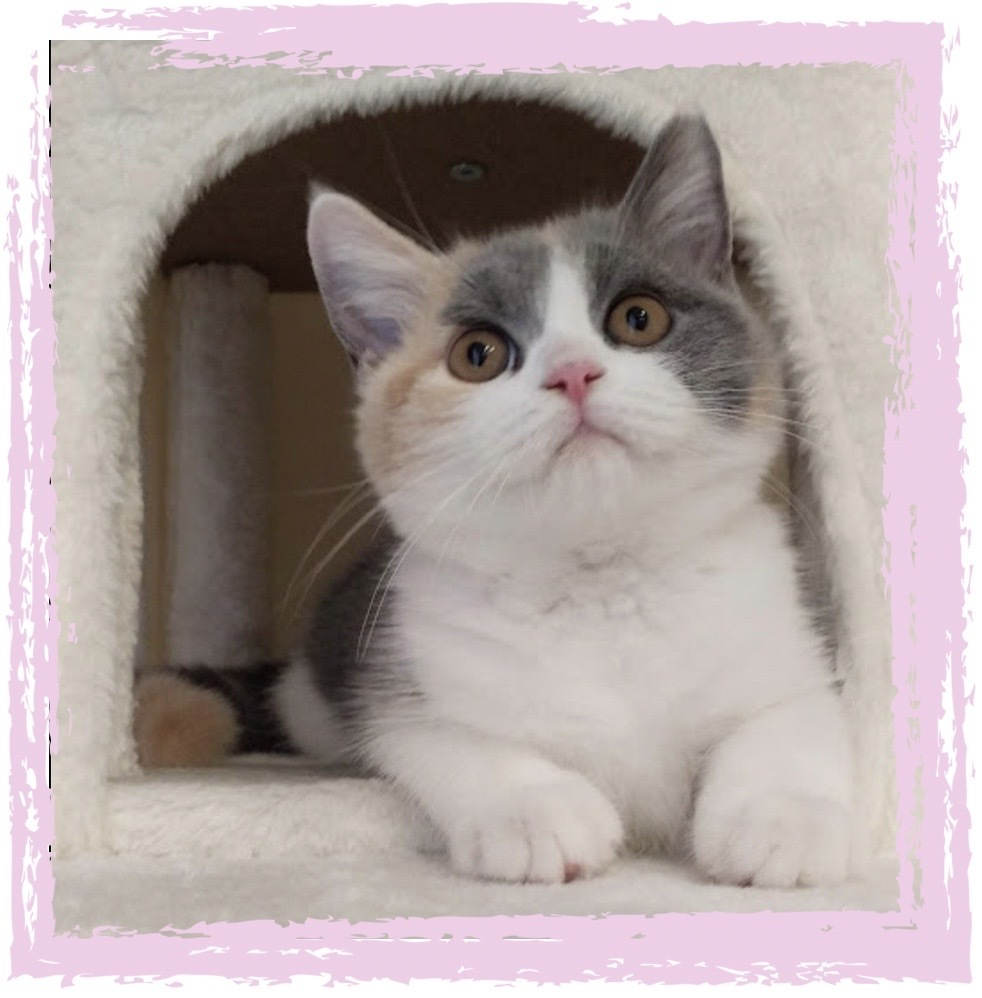
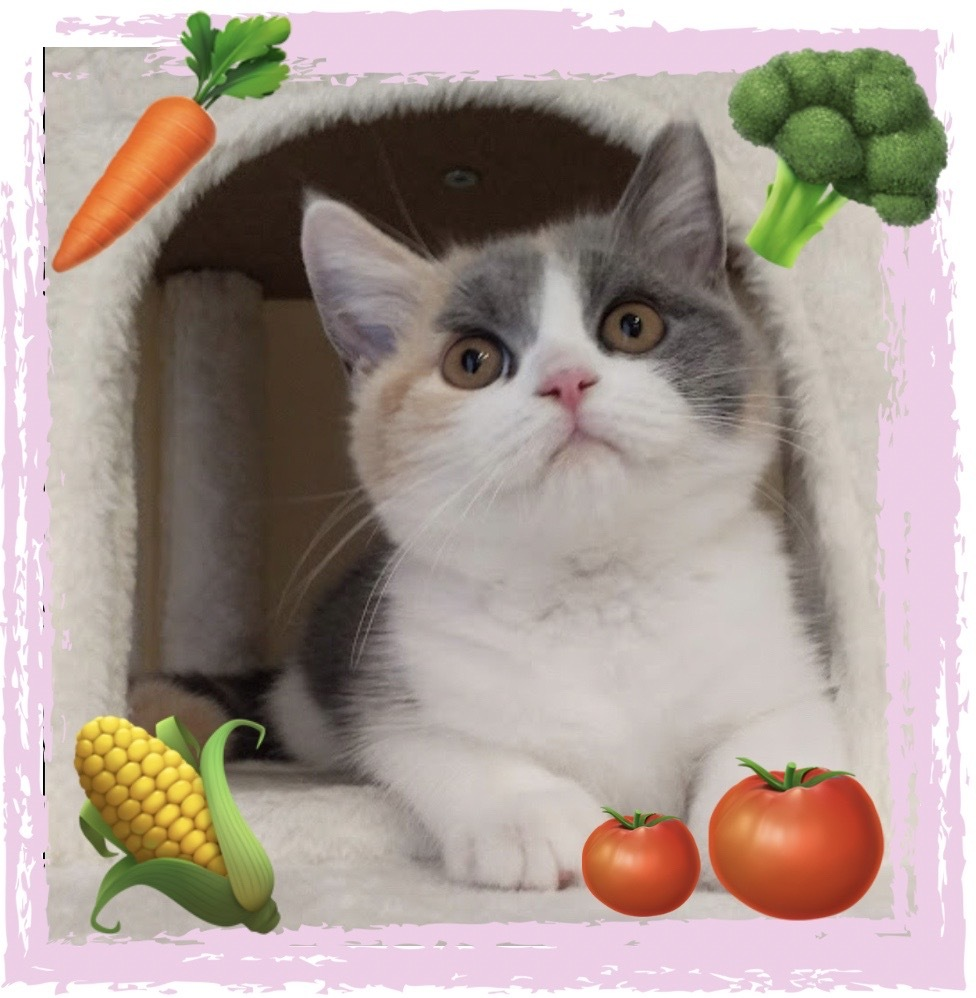
画像の編集

diff --git a/app/assets/stylesheets/style.css b/app/assets/stylesheets/style.css
@@ -67,6 +67,7 @@ a {
   border: 1px #049cfa solid;
   border-radius: 3px;
   transition: 0.4s ease;
+  margin-top: 15px;
 }
 
 .nav__btn:hover{
@@ -149,6 +150,9 @@ a {
 }
 
 /* メイン */
+.main {
+  background-image: url("vegetable");
+} 
 
 .greeting{
   margin-bottom: 20px;
@@ -208,6 +212,45 @@ a {
   background-size: cover;
   width: calc(100vw);
   height: calc(100vh);
+}
+
+.baby{
+  font-size: 15px;
+  display: inline;
+  padding: 0.2em;
+  margin: 10px;
+  color: black;
+  border: #ffffff dashed 1px;
+  box-shadow: 0 0 0 0.2em #acedf7;
+  border-radius: 2.5px;
+  background-color: #acedf7;
+  cursor: pointer;
+}
+
+.yawn{
+  font-size: 15px;
+  display: inline;
+  padding: 0.2em;
+  margin: 10px;
+  color: black;
+  border: orange dashed 1px;
+  box-shadow: 0 0 0 0.2em rgb(252, 252, 164);
+  border-radius: 2.5px;
+  background-color: rgb(252, 252, 164);
+  cursor: pointer;
+}
+
+.stare{
+  font-size: 15px;
+  display: inline;
+  padding: 0.2em;
+  margin: 10px;
+  color: black;
+  border: #ffffff dashed 1px;
+  box-shadow: 0 0 0 0.2em hsl(330, 88%, 81%);
+  border-radius: 2.5px;
+  background-color: hsl(330, 88%, 81%);
+  cursor: pointer;
 }
 
 /* フッター */
